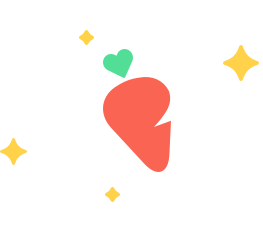
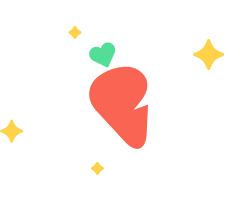
Use a smaller image for the mobile NUX screen.

diff --git a/scss/partials/_onboard_overlay.scss b/scss/partials/_onboard_overlay.scss
@@ -177,10 +177,10 @@ div.onboard-overlay-container {
           @include image-2x("/img/ML/onboard_desktop_screenshot_2");
 
           @include mobile() {
-            width: 263px;
-            height: 231px;
+            width: 227px;
+            height: 200px;
             @include image-2x("/img/ML/mobile_onboard_overlay");
-            background-size: 263px 231px;
+            background-size: 227px 200px;
           }
         }
       }
